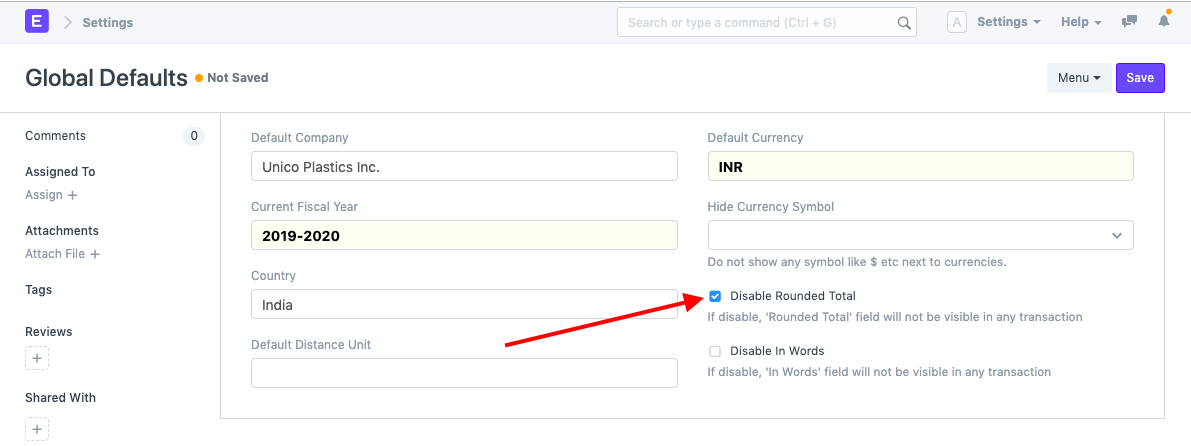
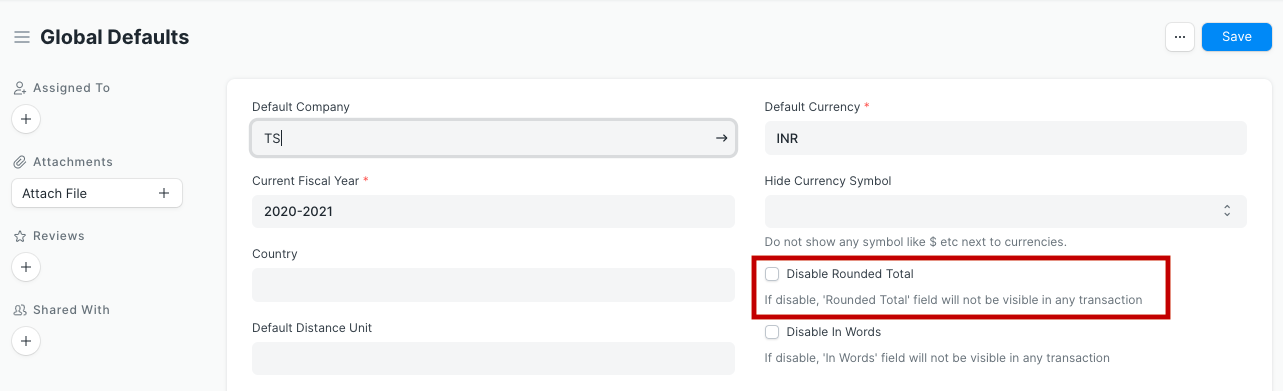
fix: updated steps to disable rounded total

diff --git a/erpnext_documentation/www/docs/user/manual/en/customize-erpnext/articles/disable-rounded-total.md b/erpnext_documentation/www/docs/user/manual/en/customize-erpnext/articles/disable-rounded-total.md
@@ -3,25 +3,23 @@
 
 All the sales transactions like Sales Order, Sales Invoice have Rounded Total in it. It is calculated based on the value of Grand Total. Moreover, Rounded Total is also visible in the Standard Print Formats.
 
-> Note: The Rounded Total is a feature on present in **Sales** transactions.
+> Note: The Rounded Total is a feature present in **Sales** transactions.
 
 <img alt="Print Preview" class="screenshot" src="{{docs_base_url}}/assets/img/customize/customize-disable-rounded-total-2.png">
 
-However, if you wish to disable the same, you may follow steps given below to hide rounded total from Standard Print Formats, for all the sales transactions.
+However, if you wish to disable the same, you may follow the steps given below to hide the rounded total from Standard Print Formats, for all the sales transactions.
 
-#### Step 1: Go to ERPNext Settings
+#### Step 1: Go to Global Defaults
 
-> Home > Settings > Settings > ERPNext Settings
-
-<img alt="Print Preview" class="screenshot" src="{{docs_base_url}}/assets/img/customize/customize-disable-rounded-total-1.png">
+From the Awesome Bar search for Global Defaults
 
 #### Step 2: Disable Rounded Total
 
-Check Disable Rounded Total, and Save Global Defaults.
+Check Disable Rounded Total, and click on save.
 
 <img alt="Print Preview" class="screenshot" src="{{docs_base_url}}/assets/img/customize/customize-disable-rounded-total.png">
 
-To be able to view this setting, you should clear cache and/or refresh your ERPNext account. Then your print formats shall not render value for the Rounded Total.
+To verify the changes, you should clear the cache and/or refresh your ERPNext account. Then your print formats shall not render value for the Rounded Total.
 
 > Note: This setting will only affect Standard print formats.
 
